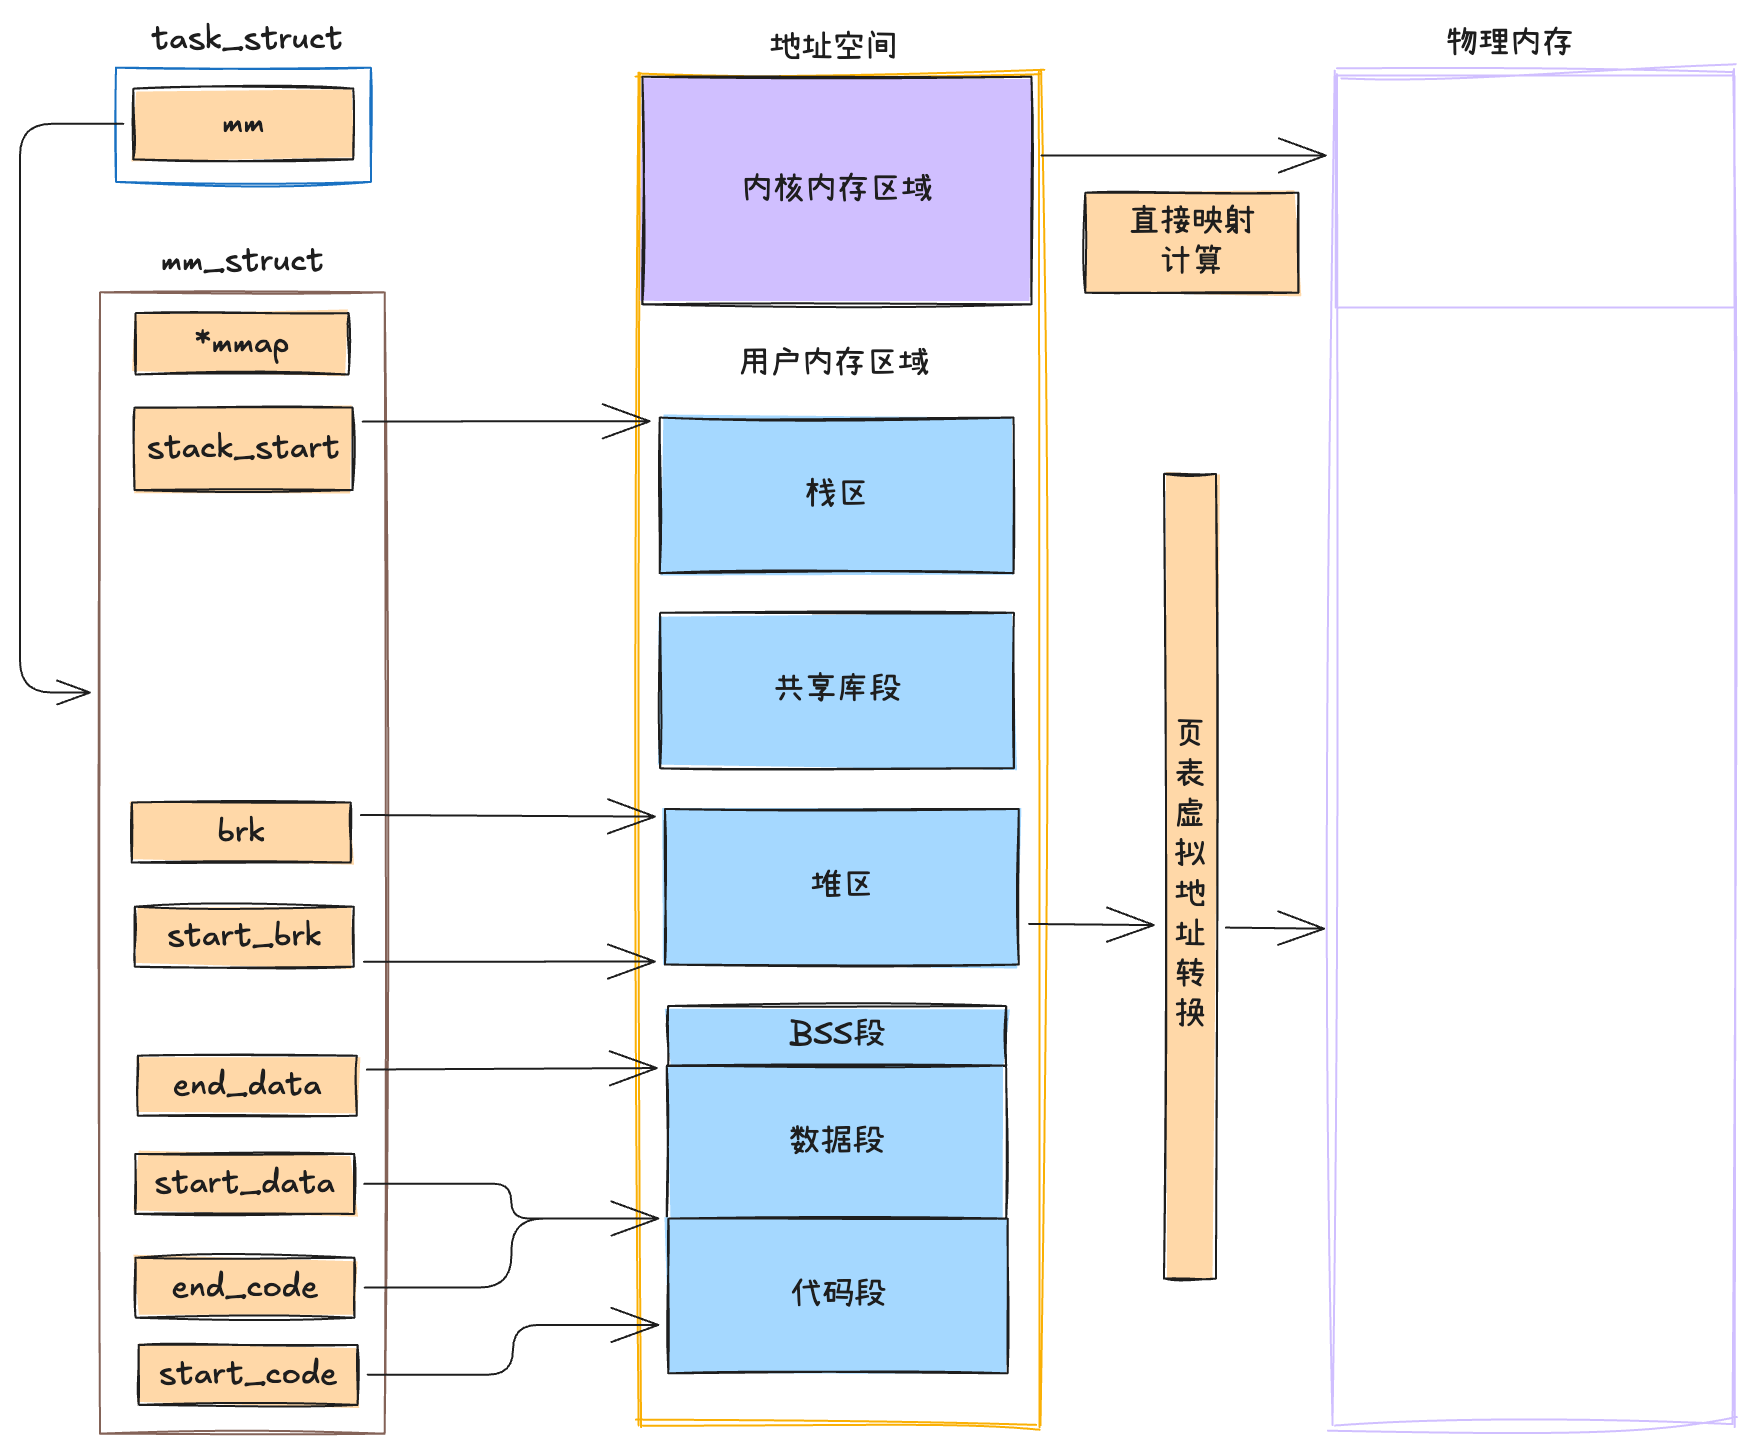
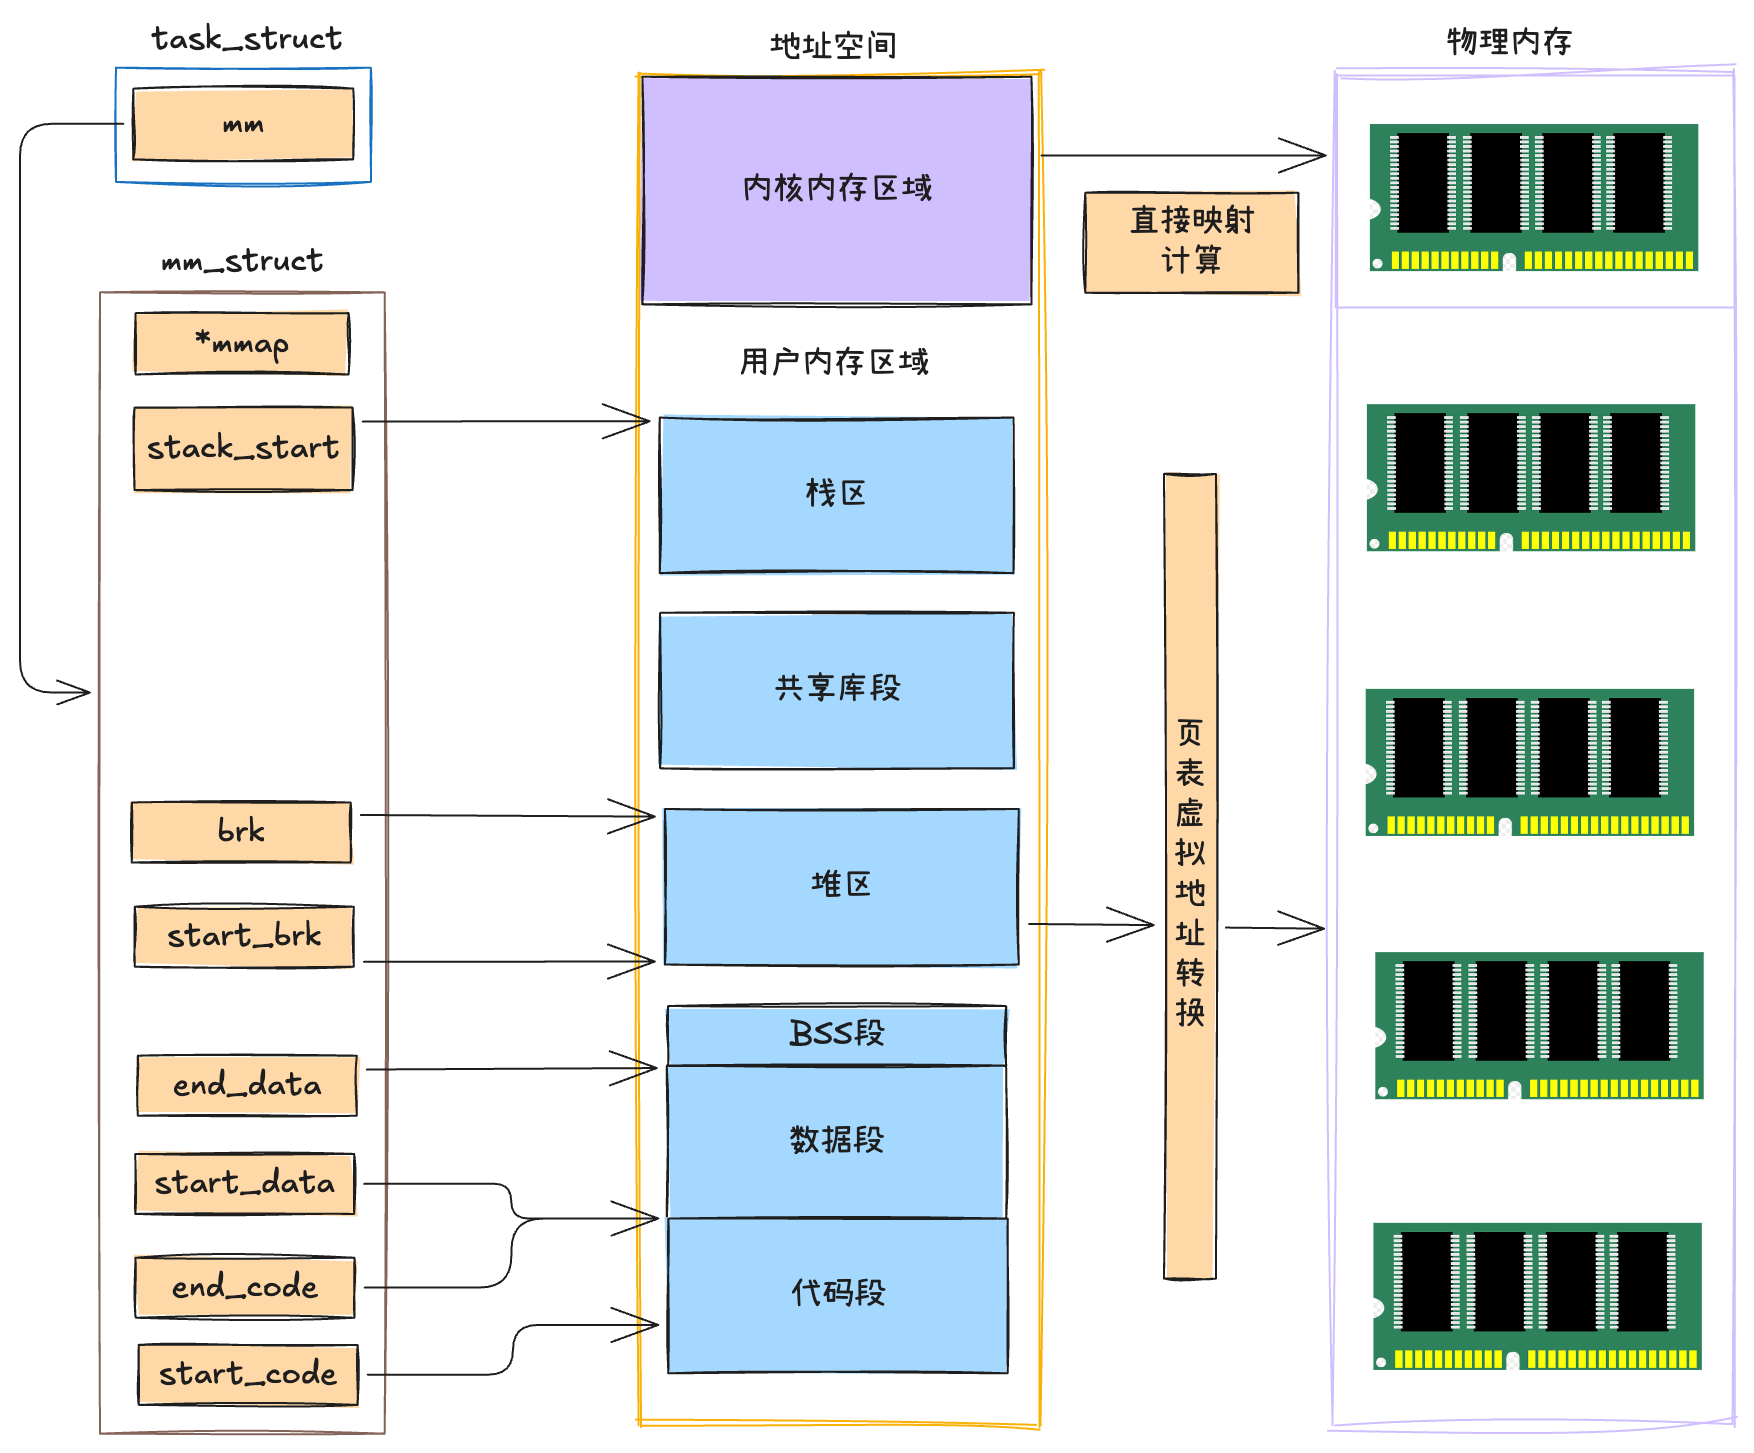
物理内存

diff --git a/source/_posts/进程与内存/3. 系统物理内存初始化.md b/source/_posts/进程与内存/3. 系统物理内存初始化.md
@@ -44,3 +44,33 @@ date: 2025-04-05 09:30
 #### memblock分配器关联NUMA信息
 > 内核创建好了memblock内存分配器，也通过固件获得了内存块的节点信息，接着还需要把NUMA信息写到memblock分配器中
 
+
+## 物理页管理之伙伴系统
+
+---
+
+### 伙伴系统相关数据结构
+> 在NUMA初始化的时候，linux内核会从固件ACPI中读取NUMA信息，其中包括当前系统node的划分
+
+```shell
+# 使用 numctl 命令看到每个node的情况
+> numactl --hardware
+available: 1 nodes (0)
+node 0 cpus: 0 1
+node 0 size: 3936 MB
+node 0 free: 527 MB
+node distances:
+node   0 
+  0:  10 
+```
+内核会为每一个node申请一个管理对象，之后会在每个node下创建各个zone，如下图所示
+![09.png](../../images/linux/09.png)
+
+zone表示内存中的一块范围，有不同的类型:
+- `ZONE_DMA`: 地址段最低的一块内存区域，支持ISA(Industry Standard Architecture) 设备DMA访问
+- `ZONE_DMA32`: 该Zone用于支持32位地址总线的DMA设备，只在64位系统里才有效
+- `ZONE_NORMAL`: 在X86-64架构下，DMA和DMA32之外的内存全部在NORMAL的Zone里管理。
+
+每个zone下都包含了许许多多个Page(页面)，在Linux下一个Page的大小一般是4KB，如下图所示
+![10.png](../../images/linux/10.png)
+
